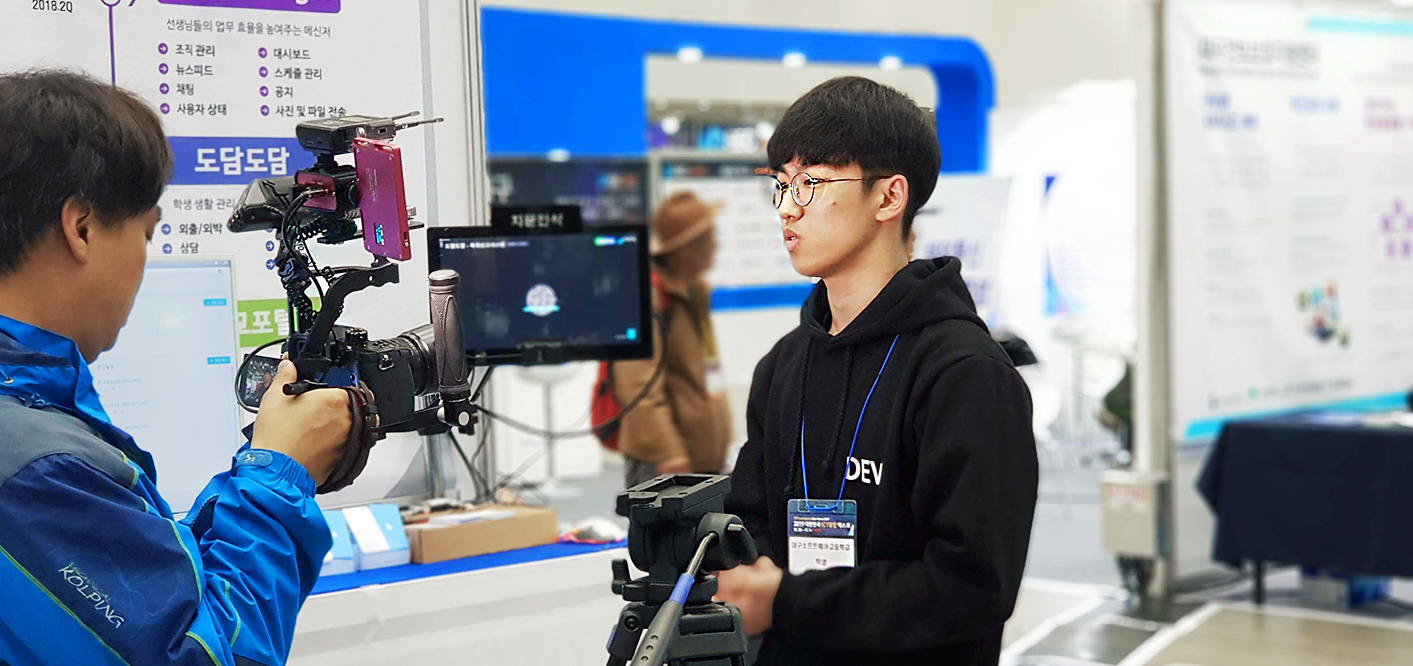
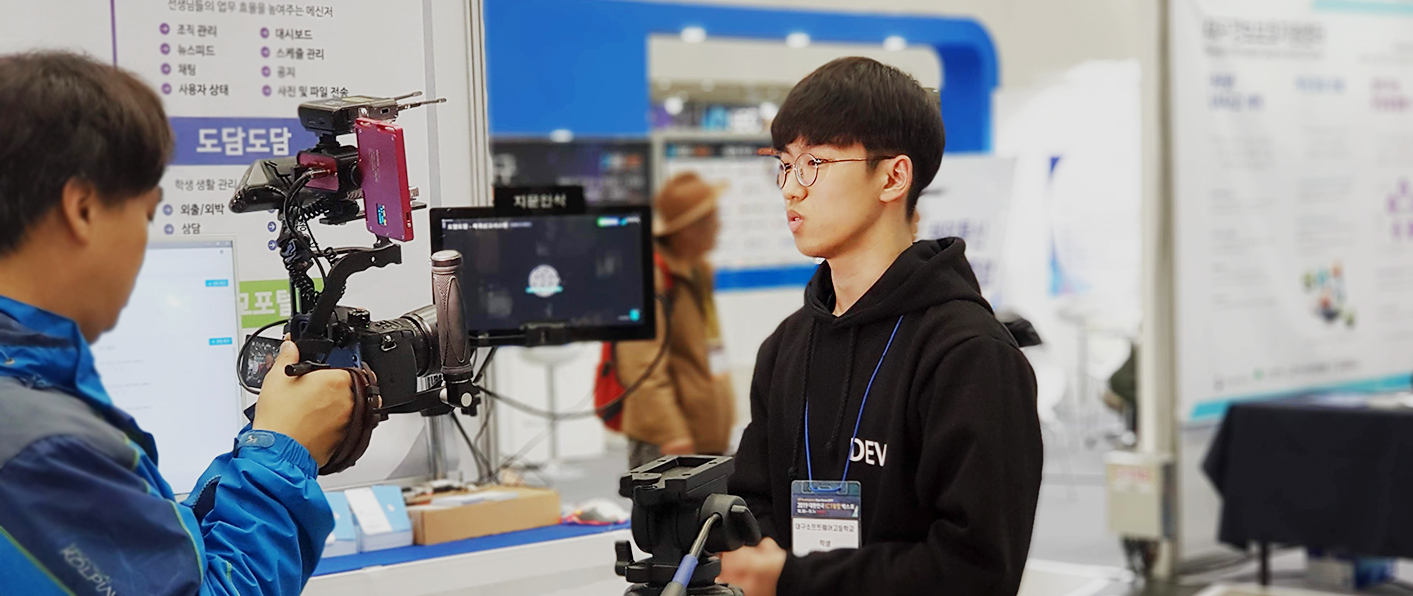
[FIX]Main Image
이미지 수정했습니다

diff --git a/src/components/Common/ImageSlide/ImageSlide.scss b/src/components/Common/ImageSlide/ImageSlide.scss
@@ -10,7 +10,7 @@
     justify-content: start;
     background-size: cover;
     width: 100%;
-    height: 80vh;
+    height: 83vh;
     &-wrap{
       width: 100%;
       height: 100%;
@@ -43,7 +43,8 @@
         width: 100%;
         &-2 {
           width: 100%;
-          object-fit: fill;
+          object-fit: cover;
+          object-position: end;
         }
       }
 
